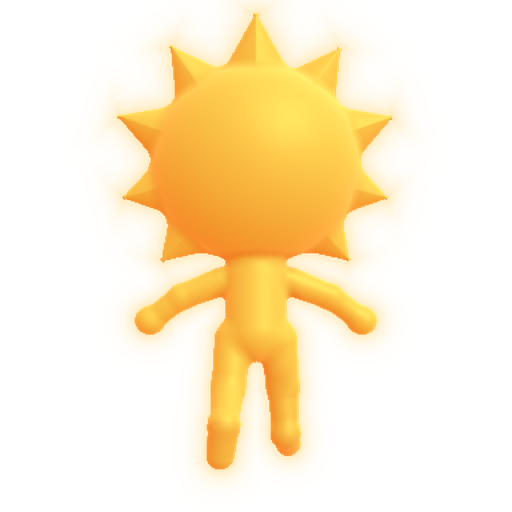
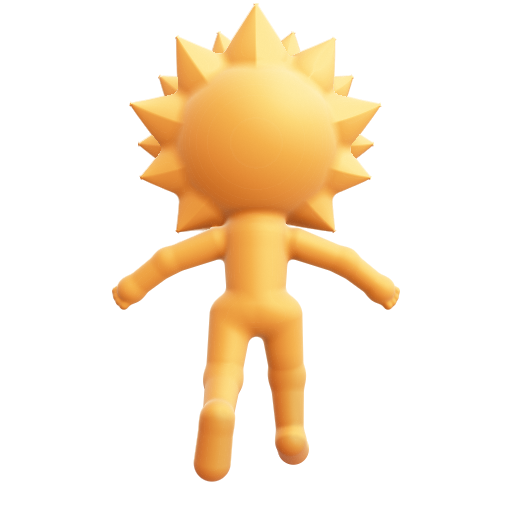
feat(s22): widen 3-lane grand causeway & upgrade Pixar-3D Soul character quality (0.22.0+22)

Changed region(s): [[0.1875, 0.0, 0.8125, 0.9375]]

diff --git a/lib/game/config/game_config.dart b/lib/game/config/game_config.dart
@@ -45,18 +45,18 @@ class GameConfig {
   static const double scorePerWorldUnit = 0.025;
   static const int orbScore = 10;
 
-  // ---- S21 30% Lower Heroic Over-the-Shoulder 3D Chase Camera ----
-  // Lowering camera elevation (`playerPlaneRatio - horizonRatio`) by ~30.2%
-  // (`0.420` -> `0.293`) opens 51.5% of the portrait screen above the horizon
-  // so players look low behind Soul out into a deep panoramic 3D world!
-  static const double farDepthRatio = 4.60;
-  static const double horizonRatio = 0.515;
-  static const double playerPlaneRatio = 0.808;
+  // ---- S22 Monumental Wide 3-Lane Causeway & Balanced Low Hero Camera ----
+  // Widened playfield ground (+34.5% width) + 40% longer runway sightline
+  // (`0.410 * h`) + broader horizon perspective (`farDepthRatio = 3.45`) so
+  // the 3-lane stone causeway feels massive and spacious around Soul!
+  static const double farDepthRatio = 3.45;
+  static const double horizonRatio = 0.445;
+  static const double playerPlaneRatio = 0.855;
   static const double farScale = 1.0 / farDepthRatio;
 
-  /// Sky-high camera framing on the Living Main Screen (`horizonY = 0.74 * h`)
+  /// Sky-high camera framing on the Living Main Screen (`horizonY = 0.73 * h`)
   /// showcasing close-up front-facing Soul against Sky Citadels & Sunset/Moon!
-  static const double titleHorizonLiftRatio = 0.225;
+  static const double titleHorizonLiftRatio = 0.285;
 
   /// Soul's living mid-air hover altitude on the Main Title Screen.
   static const double titleHoverElevation = 1.52;
@@ -77,20 +77,20 @@ class GameConfig {
   /// Gentle scenic S-curve amplitude toward the distant horizon.
   static const double roadCurveRatio = 0.095;
 
-  /// Half-width of the chiseled stone causeway at Soul's plane (`87%` width at
-  /// Soul's feet, widening naturally to fill `100%` of the bottom edge!).
-  static const double trackBottomHalfWidthRatio = 0.435;
+  /// Half-width of the monumental 3-lane stone causeway at Soul's plane
+  /// (`117%` of screen width at Soul's feet, keeping all 3 carved lanes wide!).
+  static const double trackBottomHalfWidthRatio = 0.585;
   static const double trackTopHalfWidthRatio =
       trackBottomHalfWidthRatio / farDepthRatio;
 
-  static const double trackTileRepeats = 2.15;
+  static const double trackTileRepeats = 2.55;
   static const double valleyTileRepeats = 2.45;
-  static const double cameraFollowRatio = 0.44;
-  static const double laneSpreadRatio = 0.58;
+  static const double cameraFollowRatio = 0.36;
+  static const double laneSpreadRatio = 0.588;
 
-  // ---- Closer Hero & Entity Sizing + Forgiving Side-Bump Stumble ----
-  static const double playerWidthRatio = 0.325;
-  static const double entityWidthRatio = 0.258;
+  // ---- Balanced Athletic Hero & Entity Scale on the Grand Avenue ----
+  static const double playerWidthRatio = 0.285;
+  static const double entityWidthRatio = 0.235;
   static const double hitboxFactor = 0.72;
   static const double collisionLaneThreshold = 0.27;
   static const double stumbleLaneThreshold = 0.43;
@@ -332,12 +332,12 @@ class GameConfig {
   static const double playerBobRatio = 0.024;
   static const double playerLeanAngle = 0.16;
 
-  // ---- S21 24-Frame True-3D Biomechanical Soul Run-Cycle ----
+  // ---- S22 24-Frame Athletic Pixar-3D Soul Run-Cycle ----
   static const String runFramesPrefix = 'soul/run/frame_';
   static const int runFrameCount = 24;
-  static const double runCycleFps = 28.0;
+  static const double runCycleFps = 29.0;
   static const int runIdleFrame = 1;
-  static const double runCycleFitBoost = 1.18;
+  static const double runCycleFitBoost = 1.14;
 }
 
 enum GameWorld { duskHollow, moonveilMarsh, emberfallCanyon }

diff --git a/lib/game/components/soul_player.dart b/lib/game/components/soul_player.dart
@@ -438,7 +438,7 @@ class SoulPlayer extends PositionComponent
     final totalLiftPx =
         game.effectivePlayerElevation * game.size.y * GameConfig.jumpHeightRatio;
     final chaseFootY = position.y - totalLiftPx;
-    final chaseBodyScreenY = chaseFootY - chaseBaseD * 0.39;
+    final chaseBodyScreenY = chaseFootY - chaseBaseD * 0.450;
 
     final screenPt = _introDiveScreenCenter(position.x, chaseBodyScreenY);
     final cx = screenPt.dx - originX;
@@ -619,7 +619,7 @@ class SoulPlayer extends PositionComponent
         ? math.sin((_landingTimer / 0.15).clamp(0.0, 1.0) * math.pi) * dh * 0.038
         : 0.0;
 
-    final footAnchorShift = dh * 0.39;
+    final footAnchorShift = dh * 0.450;
     final supportFloorY = h / 2 - supportLiftPx;
     final centerX = w / 2;
     final strideTheta =
@@ -709,6 +709,26 @@ class SoulPlayer extends PositionComponent
       canvas.drawPath(tail, Paint()..color = const Color(0xAAFFC44C));
     }
 
+    // 2.5 Soft Pixar Solar Corona behind Soul's chiseled sun-crown
+    //     (adds radiant golden atmosphere while keeping sprite silhouette 100% razor-sharp!)
+    final headGlowCenter = Offset(centerX, bodyCenterY - dh * 0.14);
+    final headGlowRadius = dw * 0.36;
+    canvas.drawCircle(
+      headGlowCenter,
+      headGlowRadius,
+      Paint()
+        ..shader = Gradient.radial(
+          headGlowCenter,
+          headGlowRadius,
+          const [
+            Color(0x46FFF0B4),
+            Color(0x20FFAE3C),
+            Color(0x00FF8E24),
+          ],
+          const [0.0, 0.58, 1.0],
+        ),
+    );
+
     // 3. Pixar-3D Soul Character Render!
     canvas.save();
     canvas.translate(centerX, bodyCenterY);
@@ -794,9 +814,9 @@ class SoulPlayer extends PositionComponent
     // B) Warm radial golden pool right beneath Soul's feet
     canvas.drawOval(
       Rect.fromCenter(
-        center: Offset(centerX, supportFloorY + 5),
-        width: dw * 0.88 * shadowScale,
-        height: dh * 0.20 * shadowScale,
+        center: Offset(centerX, supportFloorY + 4),
+        width: dw * 0.62 * shadowScale,
+        height: dh * 0.16 * shadowScale,
       ),
       Paint()
         ..color = const Color(0xFFFFB844).withValues(alpha: 0.38 * trailAlpha)
@@ -804,12 +824,12 @@ class SoulPlayer extends PositionComponent
     );
 
     // C) Long Blazing Golden Reflection Streak (`06-22-12`, `06-23-20`, `06-22-29`)!
-    final tailSkewX = isDiagonalGlideJet ? -dw * 0.34 : 0.0;
+    final tailSkewX = isDiagonalGlideJet ? -dw * 0.30 : 0.0;
     final streakOuter = Path()
-      ..moveTo(centerX - dw * 0.15 * shadowScale, supportFloorY + 2)
-      ..lineTo(centerX + dw * 0.15 * shadowScale, supportFloorY + 2)
-      ..lineTo(centerX + tailSkewX + dw * 0.08, supportFloorY + trailLen)
-      ..lineTo(centerX + tailSkewX - dw * 0.08, supportFloorY + trailLen)
+      ..moveTo(centerX - dw * 0.11 * shadowScale, supportFloorY + 2)
+      ..lineTo(centerX + dw * 0.11 * shadowScale, supportFloorY + 2)
+      ..lineTo(centerX + tailSkewX + dw * 0.06, supportFloorY + trailLen)
+      ..lineTo(centerX + tailSkewX - dw * 0.06, supportFloorY + trailLen)
       ..close();
     canvas.drawPath(
       streakOuter,

diff --git a/test/unit/world_config_test.dart b/test/unit/world_config_test.dart
@@ -85,15 +85,17 @@ void main() {
     }
   });
 
-  test('S21 24-frame run cycle and 30%-lower chase camera invariants hold', () {
+  test('S22 24-frame athletic run cycle and wide 3-lane causeway invariants hold',
+      () {
     expect(GameConfig.runFrameCount, equals(24));
     expect(GameConfig.runCycleFps, greaterThanOrEqualTo(24.0));
 
-    // Camera elevation proxy (playerPlaneRatio - horizonRatio) dropped ~30%
-    // from S20's 0.42 to ~0.293, opening >50% of the screen to the 3D world!
-    final cameraSpan = GameConfig.playerPlaneRatio - GameConfig.horizonRatio;
-    expect(GameConfig.horizonRatio, greaterThanOrEqualTo(0.50));
-    expect(cameraSpan, lessThanOrEqualTo(0.31));
+    // Grand 3-lane causeway is wide (>= 1.10 * screenWidth at player plane)
+    // and offers >= 0.38 * screenHeight visible runway ahead of Soul!
+    expect(GameConfig.trackBottomHalfWidthRatio, greaterThanOrEqualTo(0.55));
+    final runwaySpan = GameConfig.playerPlaneRatio - GameConfig.horizonRatio;
+    expect(runwaySpan, greaterThanOrEqualTo(0.38));
+    expect(GameConfig.horizonRatio, inInclusiveRange(0.40, 0.50));
     expect(GameConfig.ambientParticleCount, greaterThanOrEqualTo(40));
   });
 

diff --git a/lib/game/components/track_scene.dart b/lib/game/components/track_scene.dart
@@ -732,7 +732,7 @@ class TrackScene extends PositionComponent
           );
         }
 
-        final leftX = cx - hw * (worldSlot.isEven ? 1.44 : 1.74);
+        final leftX = cx - hw * (worldSlot.isEven ? 1.50 : 1.76);
         final leftBottomY = ybDeck + ch * 0.34;
 
         final cyanCol = isMarsh
@@ -1432,7 +1432,7 @@ class TrackScene extends PositionComponent
         final ybCurb = ybDeck - w * (side < 0 || isMarsh ? 0.024 : 0.006) * sc;
 
         if (useLantern) {
-          final pw = w * (isMarsh ? 0.145 : 0.155) * sc;
+          final pw = w * (isMarsh ? 0.135 : 0.145) * sc;
           final aspect = pillar != null ? pillar.height / pillar.width : 1.75;
           final ph = pw * aspect;
 
@@ -1463,7 +1463,7 @@ class TrackScene extends PositionComponent
             );
           }
         } else {
-          final cw = w * 0.24 * sc;
+          final cw = w * 0.205 * sc;
           final ch = cw * (cliff.height / cliff.width);
 
           // Long diagonal sunset shadow cast down-left across the flagstones

diff --git a/lib/ui/screens/settings_screen.dart b/lib/ui/screens/settings_screen.dart
@@ -70,7 +70,7 @@ class SettingsScreen extends StatelessWidget {
               const _SettingRow(
                 icon: Icons.info_outline_rounded,
                 title: 'VERSION',
-                trailing: Text('0.21.0',
+                trailing: Text('0.22.0',
                     style: TextStyle(
                         color: Colors.white70, letterSpacing: 2, fontSize: 14)),
                 caption: 'Early access build',
